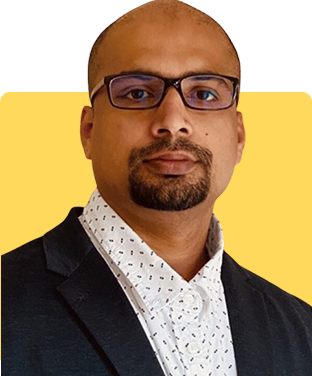
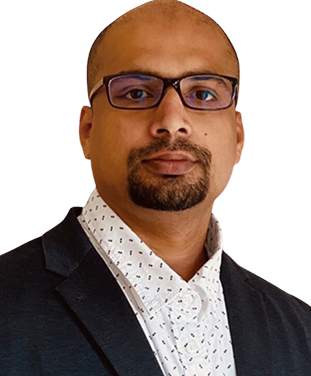
minor update in css

diff --git a/index.html b/index.html
@@ -523,7 +523,7 @@
 
         <div class="row mb-5">
             <div class="col-12 text-center">
-                <div class="custom-key-people-tag mx-auto mb-3 px-3 py-1 d-inline-block">
+                <div class="section-header-box">
                     The Key people behind this
                 </div>
                 
@@ -538,7 +538,7 @@
             
             <div class="col-12 col-md-4 d-flex align-items-stretch">
                 <div class="text-center custom-member-card">
-                    <div class="custom-img-container">
+                    <div class="custom-img-container bg-team-card">
                         <img src="./assets/images/cards/shine.png" class="img-fluid custom-clip-image">
                     </div>
                     
@@ -547,8 +547,8 @@
                     </div>
                     
                     <div class="p-3">
-                        <p class="text-uppercase fw-bold small text-secondary">Founder & CEO</p>
-                        <p class="small text-muted mb-0">
+                         <h6 class="text-uppercase">Founder & CEO</h6>
+                        <p>
                             With 15 years in e-commerce, retail, and omnichannel, Shine Mathew has helped global brands like Chanel, Dr. Martens, Gucci, and Breitling transform digital operations and customer experiences worldwide.
                         </p>
                     </div>
@@ -556,8 +556,8 @@
             </div>
             
             <div class="col-12 col-md-4 d-flex align-items-stretch">
-                <div class="text-center custom-member-card">
-                    <div class="custom-img-container">
+                <div class="text-center custom-member-card ">
+                    <div class="custom-img-container  bg-team-card">
                         <img src="./assets/images/cards/stanley.png" class="img-fluid custom-clip-image">
                     </div>
                     
@@ -566,8 +566,8 @@
                     </div>
                     
                     <div class="p-3">
-                        <p class="text-uppercase fw-bold small text-secondary">Chief Technology Officer</p>
-                        <p class="small text-muted mb-0">
+                          <h6 class="text-uppercase">Chief Technology Officer</h6>
+                        <p>
                             Stanley drives InvoTools technical architecture with enterprise-scale expertise across retail and energy sectors. He brings deep experience in IT strategy, digital transformation, and platform development from senior technology roles at major energy companies.
                         </p>
                     </div>
@@ -576,7 +576,7 @@
 
             <div class="col-12 col-md-4 d-flex align-items-stretch">
                 <div class="text-center custom-member-card">
-                    <div class="custom-img-container">
+                    <div class="custom-img-container bg-team-card">
                         <img src="./assets/images/cards/Ijaz.png" class="img-fluid custom-clip-image">
                     </div>
                     
@@ -585,8 +585,8 @@
                     </div>
                     
                     <div class="p-3">
-                        <p class="text-uppercase fw-bold small text-secondary">Commercial Director</p>
-                        <p class="small text-muted mb-0">
+                        <h6 class="text-uppercase">Commercial Director</h6>
+                        <p>
                             Ijaz drives InvoTools commercial strategy with over 25 years of customer experience and ecommerce expertise. Previously Sales Director at Amplience for 12+ years, he helped leading retailers orchestrate dynamic content experiences that drove deeper customer engagement.
                         </p>
                     </div>

diff --git a/assets/scss/main.scss b/assets/scss/main.scss
@@ -360,6 +360,8 @@ h6 {
     background-color: #fff; 
     border-radius: 5px;
     box-shadow: 0 4px 8px rgba(0, 0, 0, 0.1);
+    max-width:350px;
+   
 }
 
 
@@ -387,18 +389,21 @@ h6 {
     justify-content: center;
     align-items: flex-start; 
     padding-top: 20px;
-    padding-left: 20px;
-    padding-right: 20px;
-    border-bottom-left-radius: 40% 10%; 
-    border-bottom-right-radius: 40% 10%;
     overflow: hidden; 
 }
-
 
 .custom-clip-image {
     width: 100%;
     border-radius: 0; 
 }
+
+.bg-team-card{
+    background-image: linear-gradient(to top, $accent, $accent);
+    background-size: 100% 70%;
+    background-position: bottom;
+    background-repeat: no-repeat;
+}
+
 @media (max-width: 767.98px) {
     .custom-member-card {
         margin: 0 auto;

diff --git a/assets/scss/main.css b/assets/scss/main.css
@@ -339,6 +339,7 @@ h6 {
   background-color: #fff;
   border-radius: 5px;
   box-shadow: 0 4px 8px rgba(0, 0, 0, 0.1);
+  max-width: 350px;
 }
 
 .custom-key-people-tag {
@@ -362,16 +363,19 @@ h6 {
   justify-content: center;
   align-items: flex-start;
   padding-top: 20px;
-  padding-left: 20px;
-  padding-right: 20px;
-  border-bottom-left-radius: 40% 10%;
-  border-bottom-right-radius: 40% 10%;
   overflow: hidden;
 }
 
 .custom-clip-image {
   width: 100%;
   border-radius: 0;
+}
+
+.bg-team-card {
+  background-image: linear-gradient(to top, #FFD95C, #FFD95C);
+  background-size: 100% 70%;
+  background-position: bottom;
+  background-repeat: no-repeat;
 }
 
 @media (max-width: 767.98px) {
